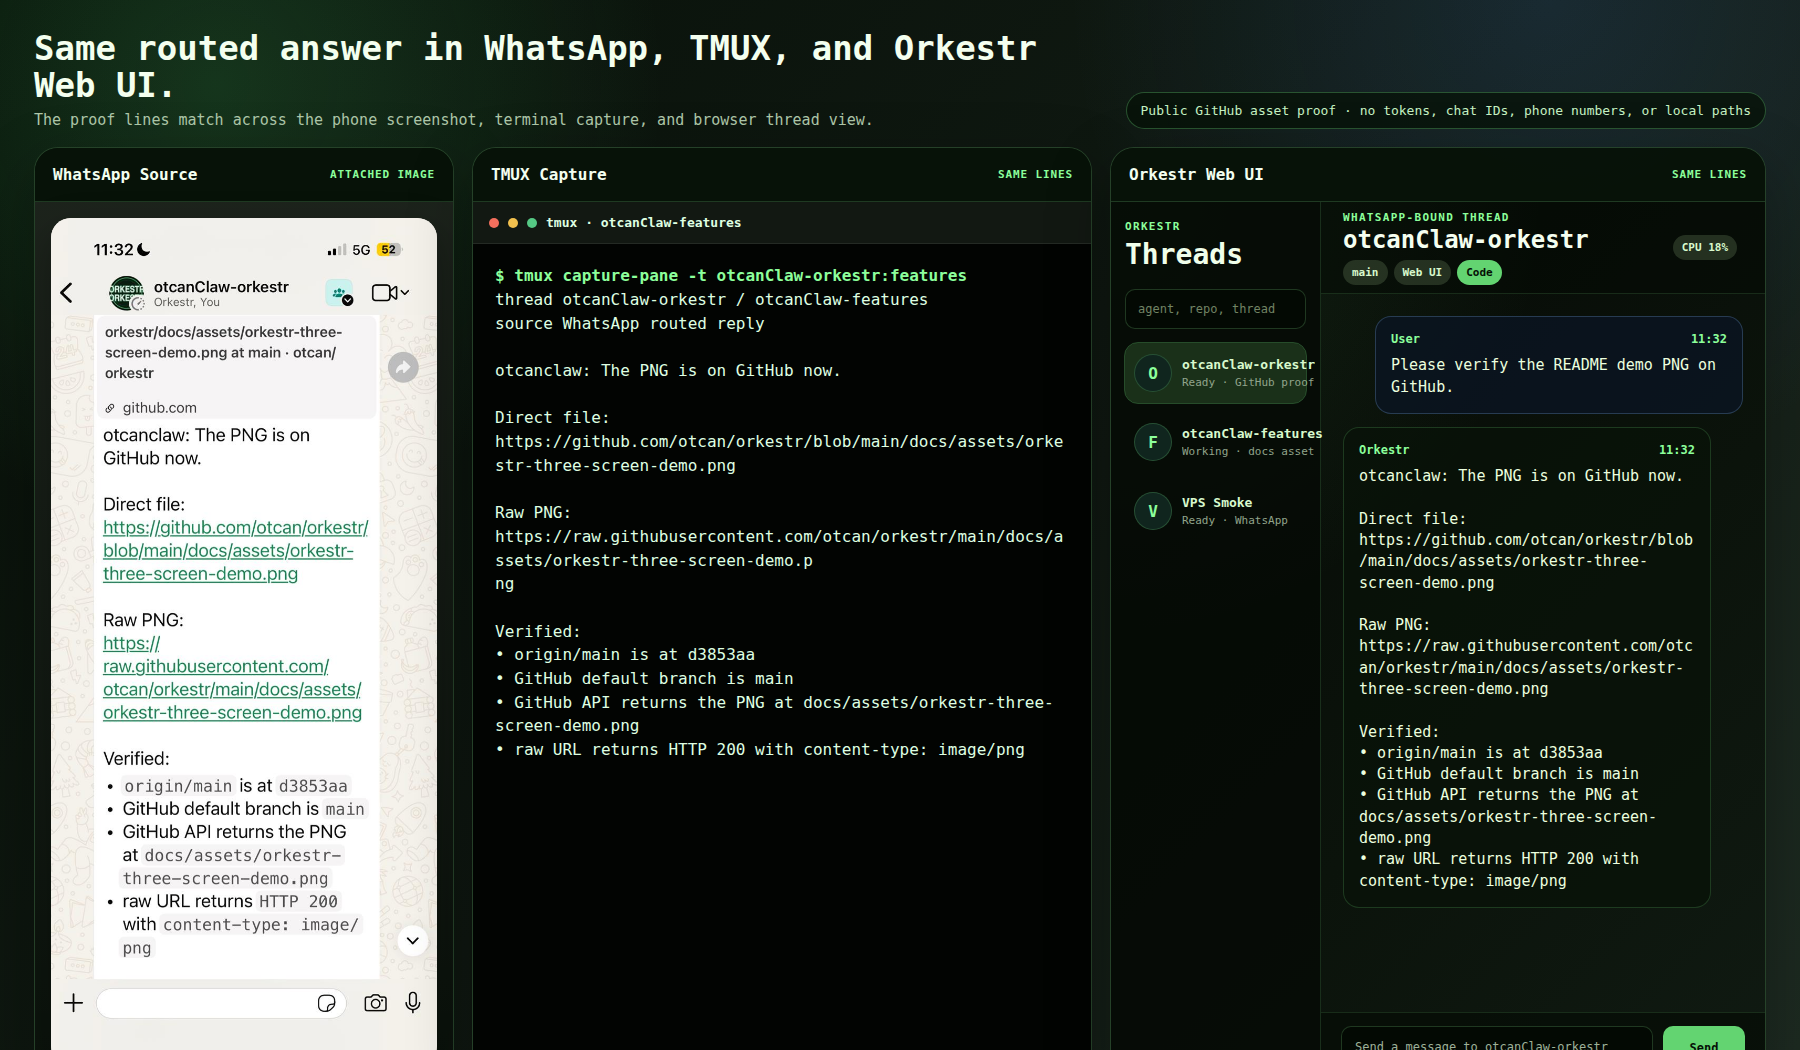
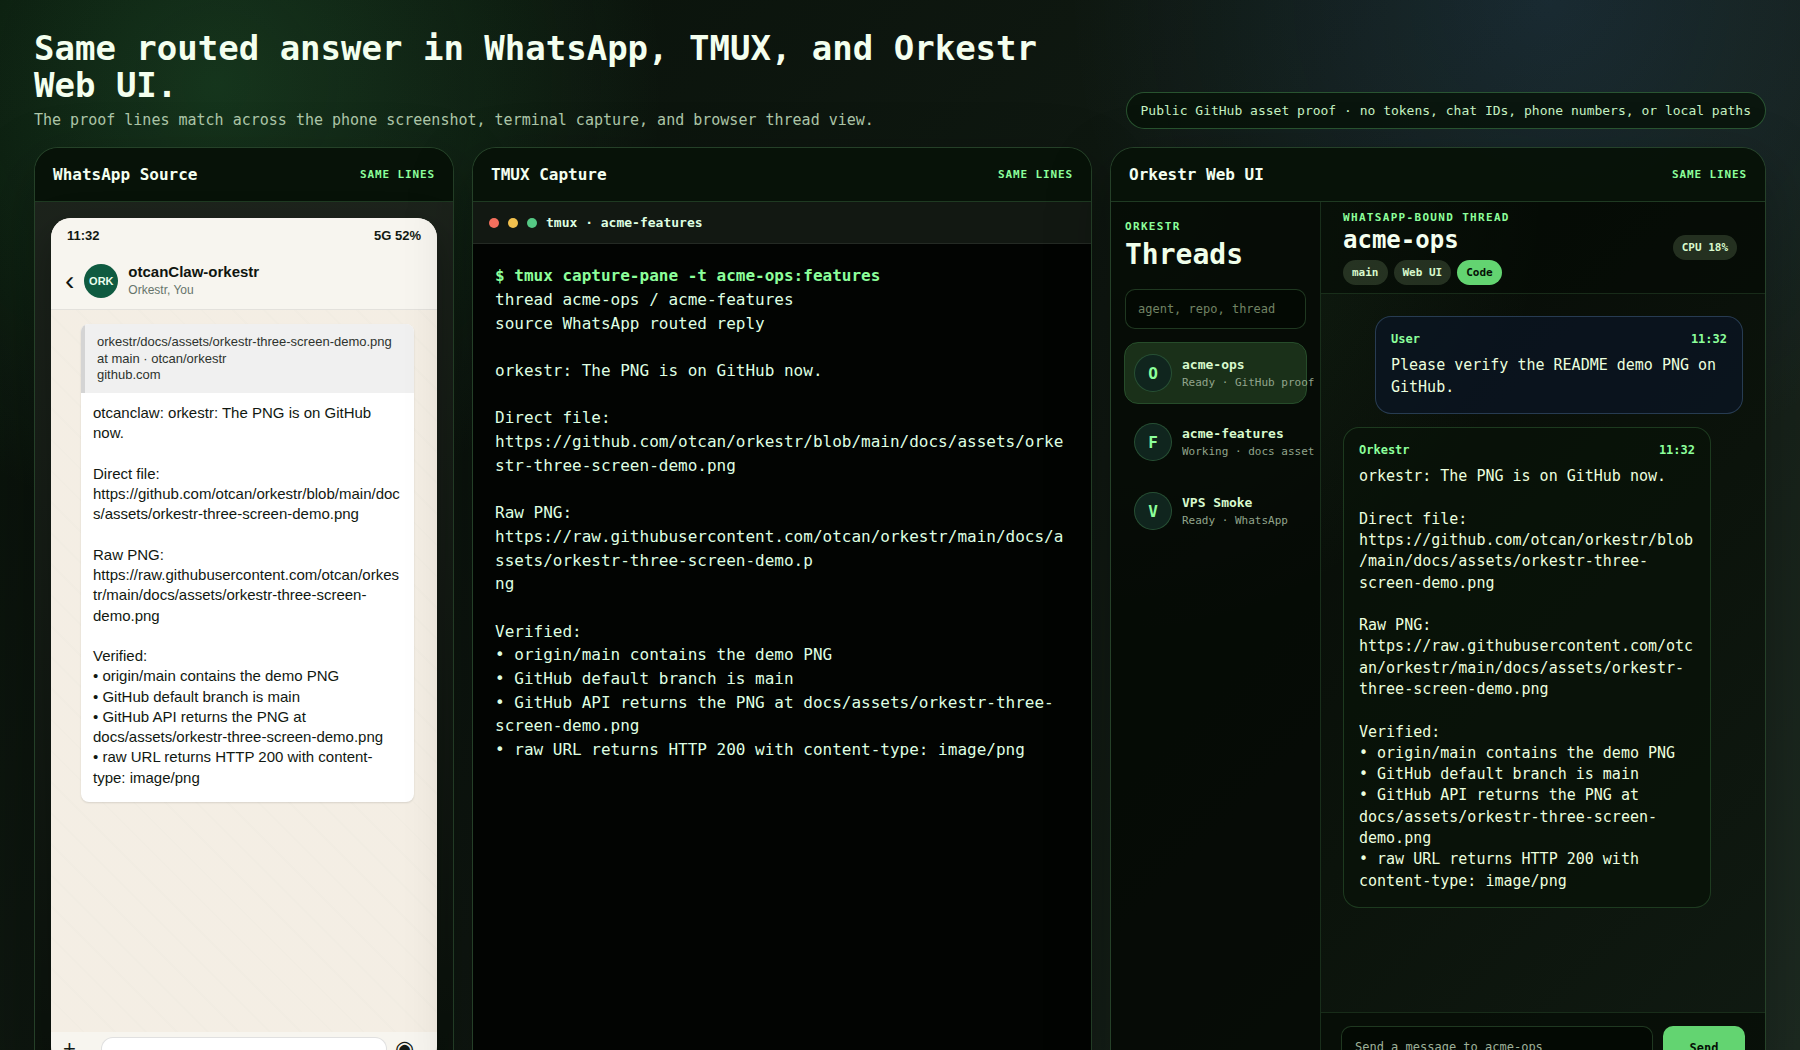
Sanitize public WhatsApp demo asset

diff --git a/test/tenant-whatsapp-routing.test.js b/test/tenant-whatsapp-routing.test.js
@@ -123,7 +123,7 @@ test("local WhatsApp bridge prefers managed broker routes over legacy forward ma
   const env = {
     ORKESTR_HOME: home,
     ORKESTR_WHATSAPP_INBOUND_FORWARD_MAP_JSON: JSON.stringify({
-      "[email redacted]": "https://legacy.example.test/api/connectors/whatsapp/inbound",
+      "[email redacted]": "https://legacy.example.test/api/connectors/whatsapp/inbound",
     }),
     ORKESTR_WHATSAPP_INBOUND_FORWARD_TOKEN: "legacy-token",
   };
@@ -133,22 +133,22 @@ test("local WhatsApp bridge prefers managed broker routes over legacy forward ma
     endpoint: { baseUrl: "https://public-broker.example.test" },
   }, env);
   const configured = await configureTenantWhatsAppRoute("broker-tenant", {
-    chatId: "[email redacted]",
+    chatId: "[email redacted]",
     chatName: "Broker tenant WA",
     accountId: "tenant-wa",
     brokerBaseUrl: "http://broker.internal.test",
   }, env);
   const route = await tenantWhatsAppInboundForwardRoute({
-    chatId: "[email redacted]",
+    chatId: "[email redacted]",
     accountId: "tenant-wa",
   }, env);
   const calls = [];
 
   const forwarded = await forwardLocalWhatsAppInbound({
     eventId: "tenant-wa-event-broker",
-    chatId: "[email redacted]",
+    chatId: "[email redacted]",
     accountId: "tenant-wa",
-    from: "[email redacted]",
+    from: "[email redacted]",
     text: "hello broker",
   }, env, async (url, options = {}) => {
     calls.push({ url: String(url), options, body: options.body ? JSON.parse(options.body) : null });
@@ -176,7 +176,7 @@ test("local WhatsApp bridge does not fall back to legacy maps when a managed rou
   const env = {
     ORKESTR_HOME: home,
     ORKESTR_WHATSAPP_INBOUND_FORWARD_MAP_JSON: JSON.stringify({
-      "[email redacted]": "https://legacy.example.test/api/connectors/whatsapp/inbound",
+      "[email redacted]": "https://legacy.example.test/api/connectors/whatsapp/inbound",
     }),
     ORKESTR_WHATSAPP_INBOUND_FORWARD_TOKEN: "legacy-token",
   };
@@ -186,7 +186,7 @@ test("local WhatsApp bridge does not fall back to legacy maps when a managed rou
     endpoint: { baseUrl: "https://missing.example.test" },
   }, env);
   const configured = await configureTenantWhatsAppRoute("missing-broker-tenant", {
-    chatId: "[email redacted]",
+    chatId: "[email redacted]",
     accountId: "tenant-wa",
   }, env);
   const vm = await getTenantVm("missing-broker-tenant", env);
@@ -202,9 +202,9 @@ test("local WhatsApp bridge does not fall back to legacy maps when a managed rou
   await assert.rejects(
     () => forwardLocalWhatsAppInbound({
       eventId: "tenant-wa-event-missing-broker",
-      chatId: "[email redacted]",
+      chatId: "[email redacted]",
       accountId: "tenant-wa",
-      from: "[email redacted]",
+      from: "[email redacted]",
       text: "hello missing broker",
     }, env, async (url) => {
       calls.push(String(url));
@@ -231,7 +231,7 @@ test("local WhatsApp bridge wraps tenant forward network failures", async () => 
     endpoint: { brokerBaseUrl: "http://network-broker.internal.test" },
   }, env);
   await configureTenantWhatsAppRoute("network-broker-tenant", {
-    chatId: "[email redacted]",
+    chatId: "[email redacted]",
     accountId: "tenant-wa",
     routeMode: "broker",
   }, env);
@@ -240,9 +240,9 @@ test("local WhatsApp bridge wraps tenant forward network failures", async () => 
   await assert.rejects(
     () => forwardLocalWhatsAppInbound({
       eventId: "tenant-wa-event-network",
-      chatId: "[email redacted]",
+      chatId: "[email redacted]",
       accountId: "tenant-wa",
-      from: "[email redacted]",
+      from: "[email redacted]",
       text: "hello network",
     }, env, async (url) => {
       calls.push(String(url));

diff --git a/test/launch-docs.test.js b/test/launch-docs.test.js
@@ -33,7 +33,7 @@ test("public launch docs expose the minimum launch surface", async () => {
   assert.match(security, /Do not expose/);
   assert.match(security, /out\s+of\s+the\s+box/);
   assert.match(readme, /orkestr-three-screen-demo\.png/);
-  assert.match(readme, /WhatsApp source screenshot/);
+  assert.match(readme, /generated WhatsApp source panel/);
   assert.match(readme, /TMUX capture/);
   assert.match(roadmap, /disposable fake-data runs/);
   assert.doesNotMatch(roadmap, /Virtual Desktop Generation/);

diff --git a/README.md b/README.md
@@ -490,8 +490,8 @@ Regenerate the public three-screen proof asset:
 npm run demo:record
 ```
 
-The generated README asset combines the saved WhatsApp source screenshot with
-a fresh TMUX capture and an Orkestr Web UI rendering that show the same public
+The generated README asset combines a generated WhatsApp source panel with a
+fresh TMUX capture and an Orkestr Web UI rendering that show the same public
 GitHub verification lines. It must not include tokens, private chat IDs, phone
 numbers, local paths, or private ops hosts.
 